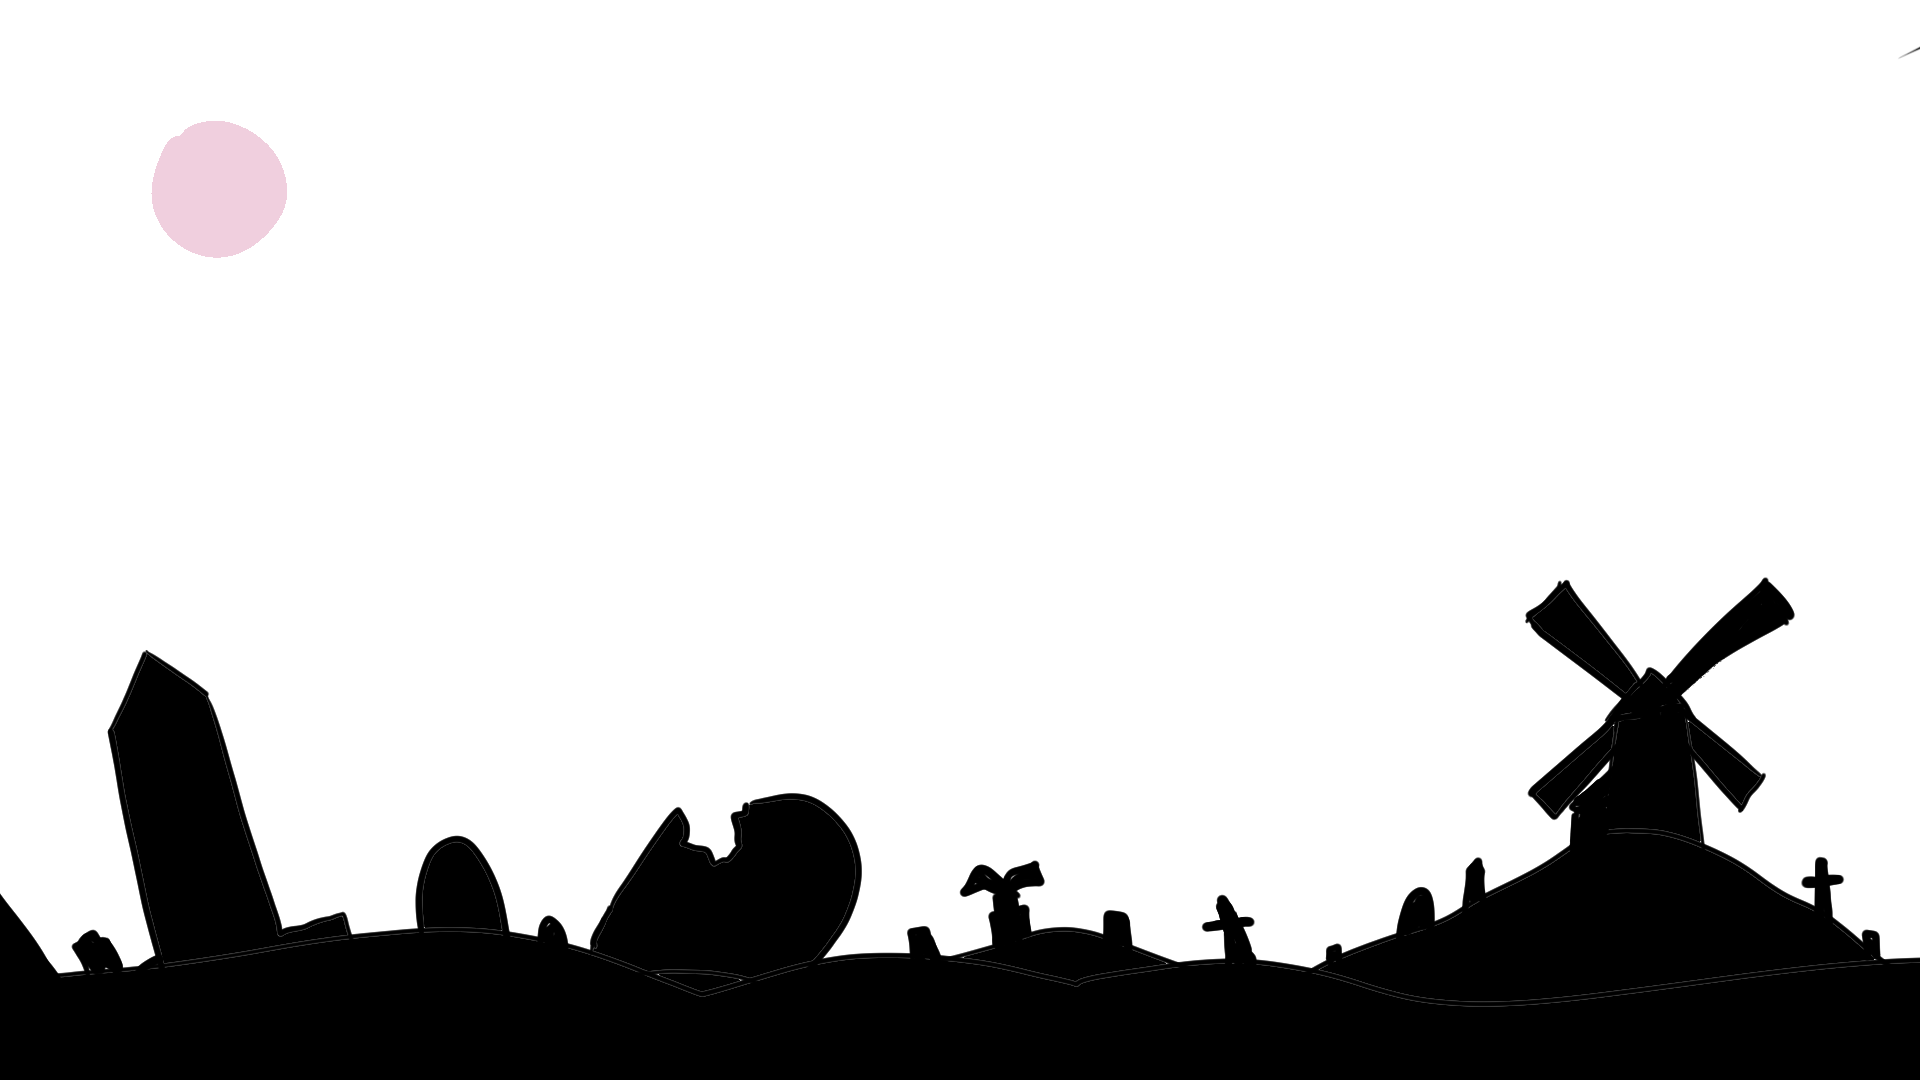
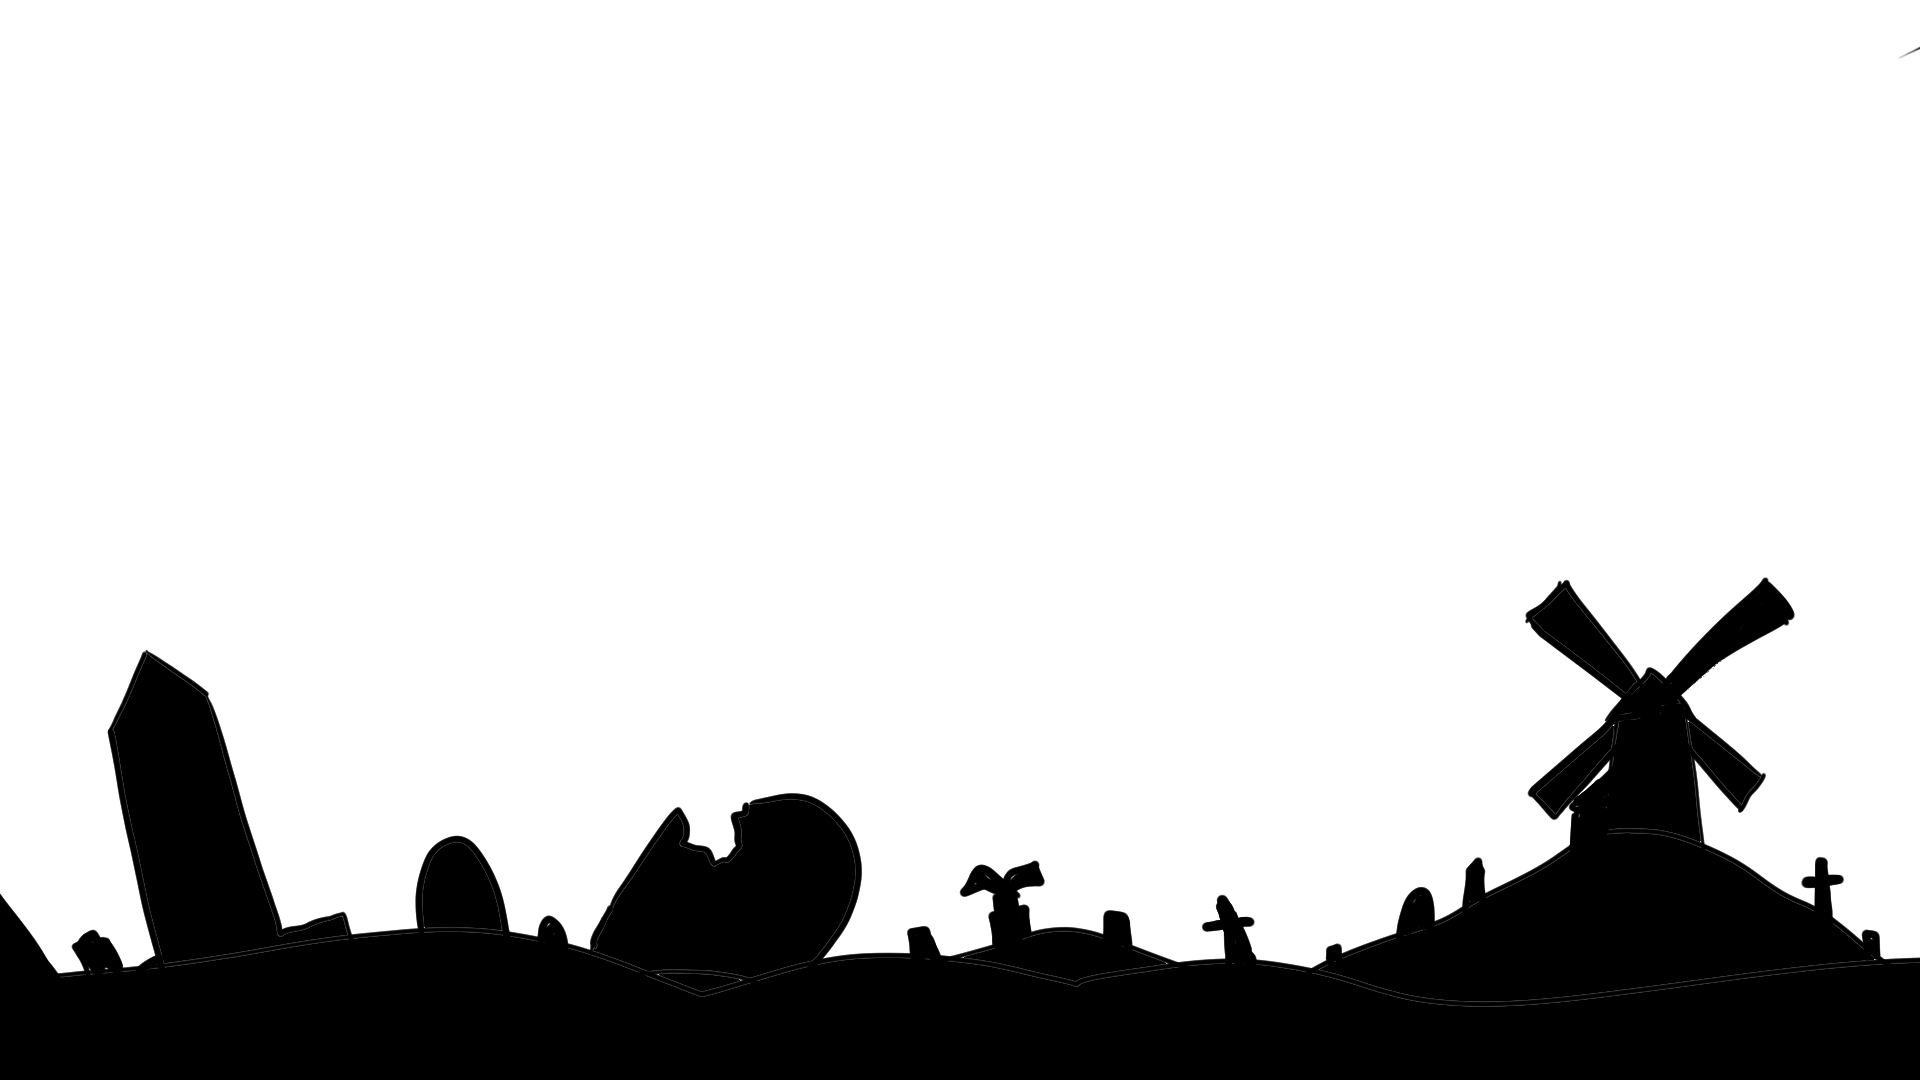
added news bg

Changed region(s): [[0.0625, 0.0917, 0.1562, 0.2444]]

diff --git a/src/index.css b/src/index.css
@@ -323,10 +323,10 @@ body {
   background: linear-gradient(180deg,
       rgba(0, 0, 0, 0.8) 0%,
       rgba(0, 0, 0, 0.7) 25%,
-      rgba(80, 49, 2, 0.521) 50%,
-      rgba(126, 70, 5, 0.507) 75%,
-      rgba(190, 104, 6, 0.479) 85%,
-      rgba(211, 127, 18, 0.473) 100%);
+      rgba(180, 110, 5, 0.521) 50%,
+      rgba(189, 105, 9, 0.507) 75%,
+      rgba(231, 127, 7, 0.479) 85%,
+      rgba(221, 129, 8, 0.788) 100%);
   background-size: 100% 400%;
   animation: gradient 10s ease infinite;
   z-index: -3;

diff --git a/src/pages/Announcements/page.tsx b/src/pages/Announcements/page.tsx
@@ -15,8 +15,8 @@ export default function Announcements() {
   if (error) return <ErrorDisplay message={error.message} />;
 
   return (
-    <AnimatedPage className="container mx-auto px-4 py-8">
-      <div className="rules-gradient"></div>
+    <AnimatedPage className="container mx-auto px-4 py-8 news-background">
+      <div className="news-gradient"></div>
       <h1 className="text-3xl font-semibold mb-4 text-center">
         The Scareathon Post
       </h1>

diff --git a/src/components/AnimatedPage.tsx b/src/components/AnimatedPage.tsx
@@ -20,6 +20,7 @@ export default function AnimatedPage({
       style={{
         paddingTop: height,
         minHeight: '100vh',
+        minWidth: '100vw',
         ...style,
       }}
       className={className}
